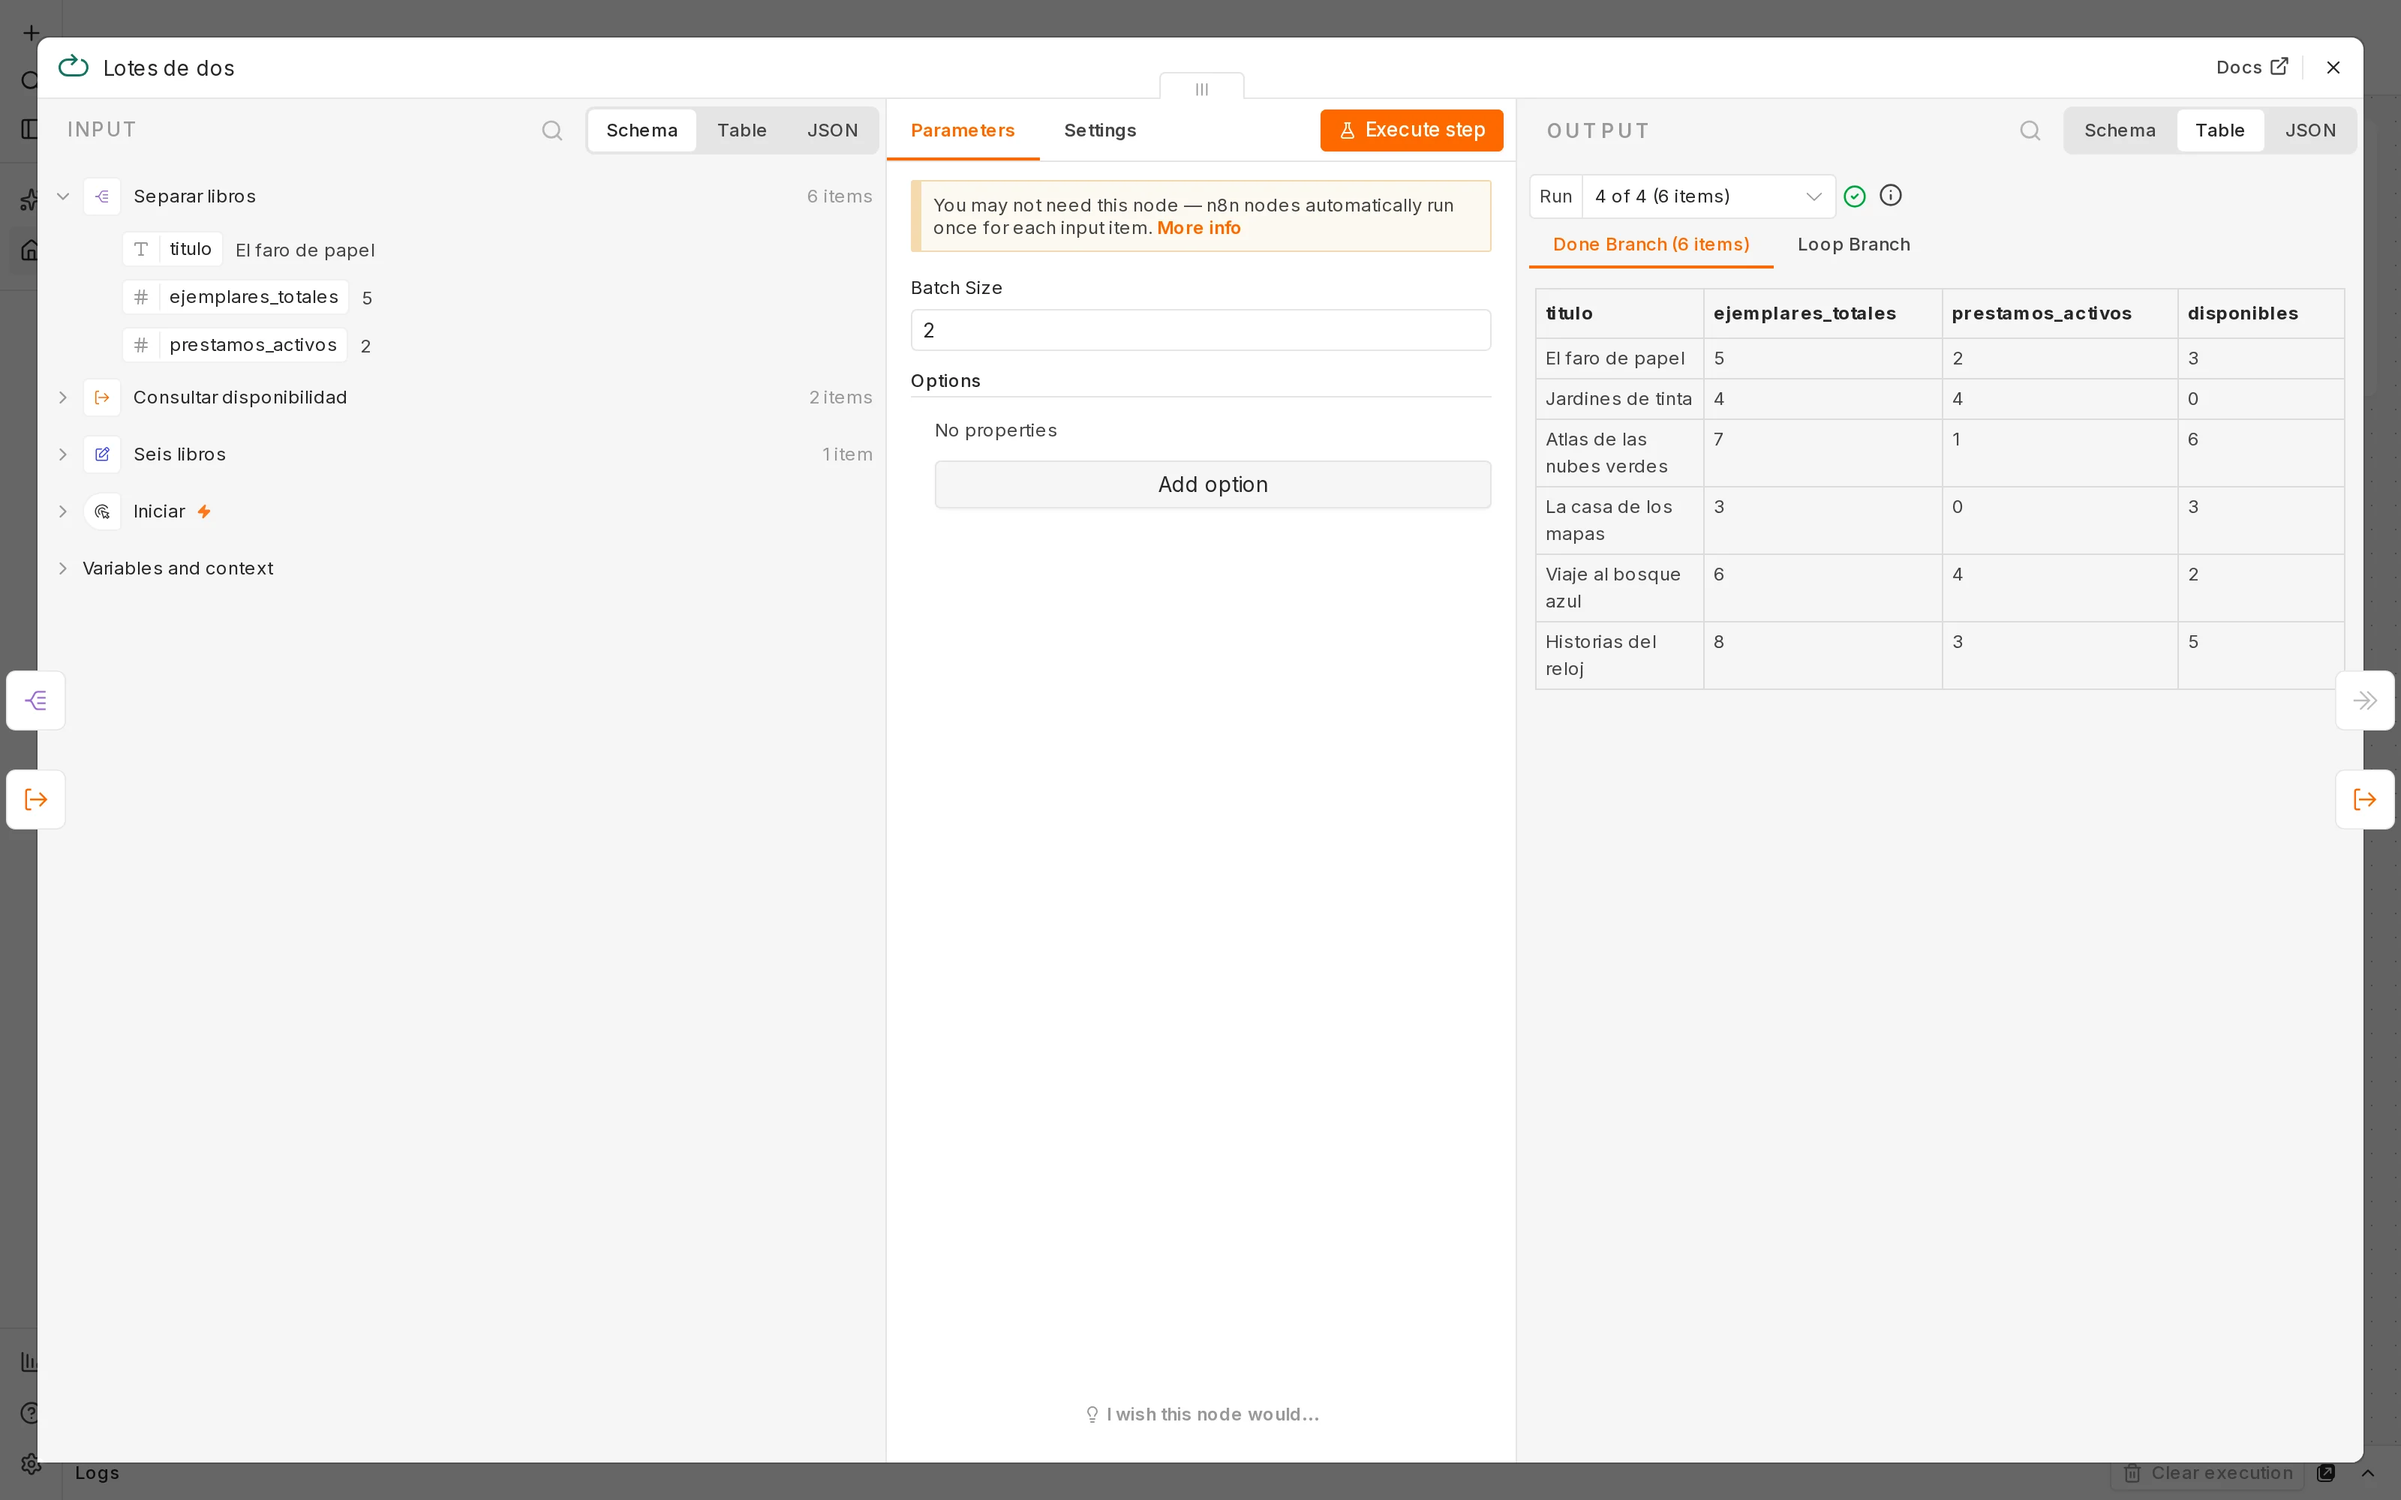
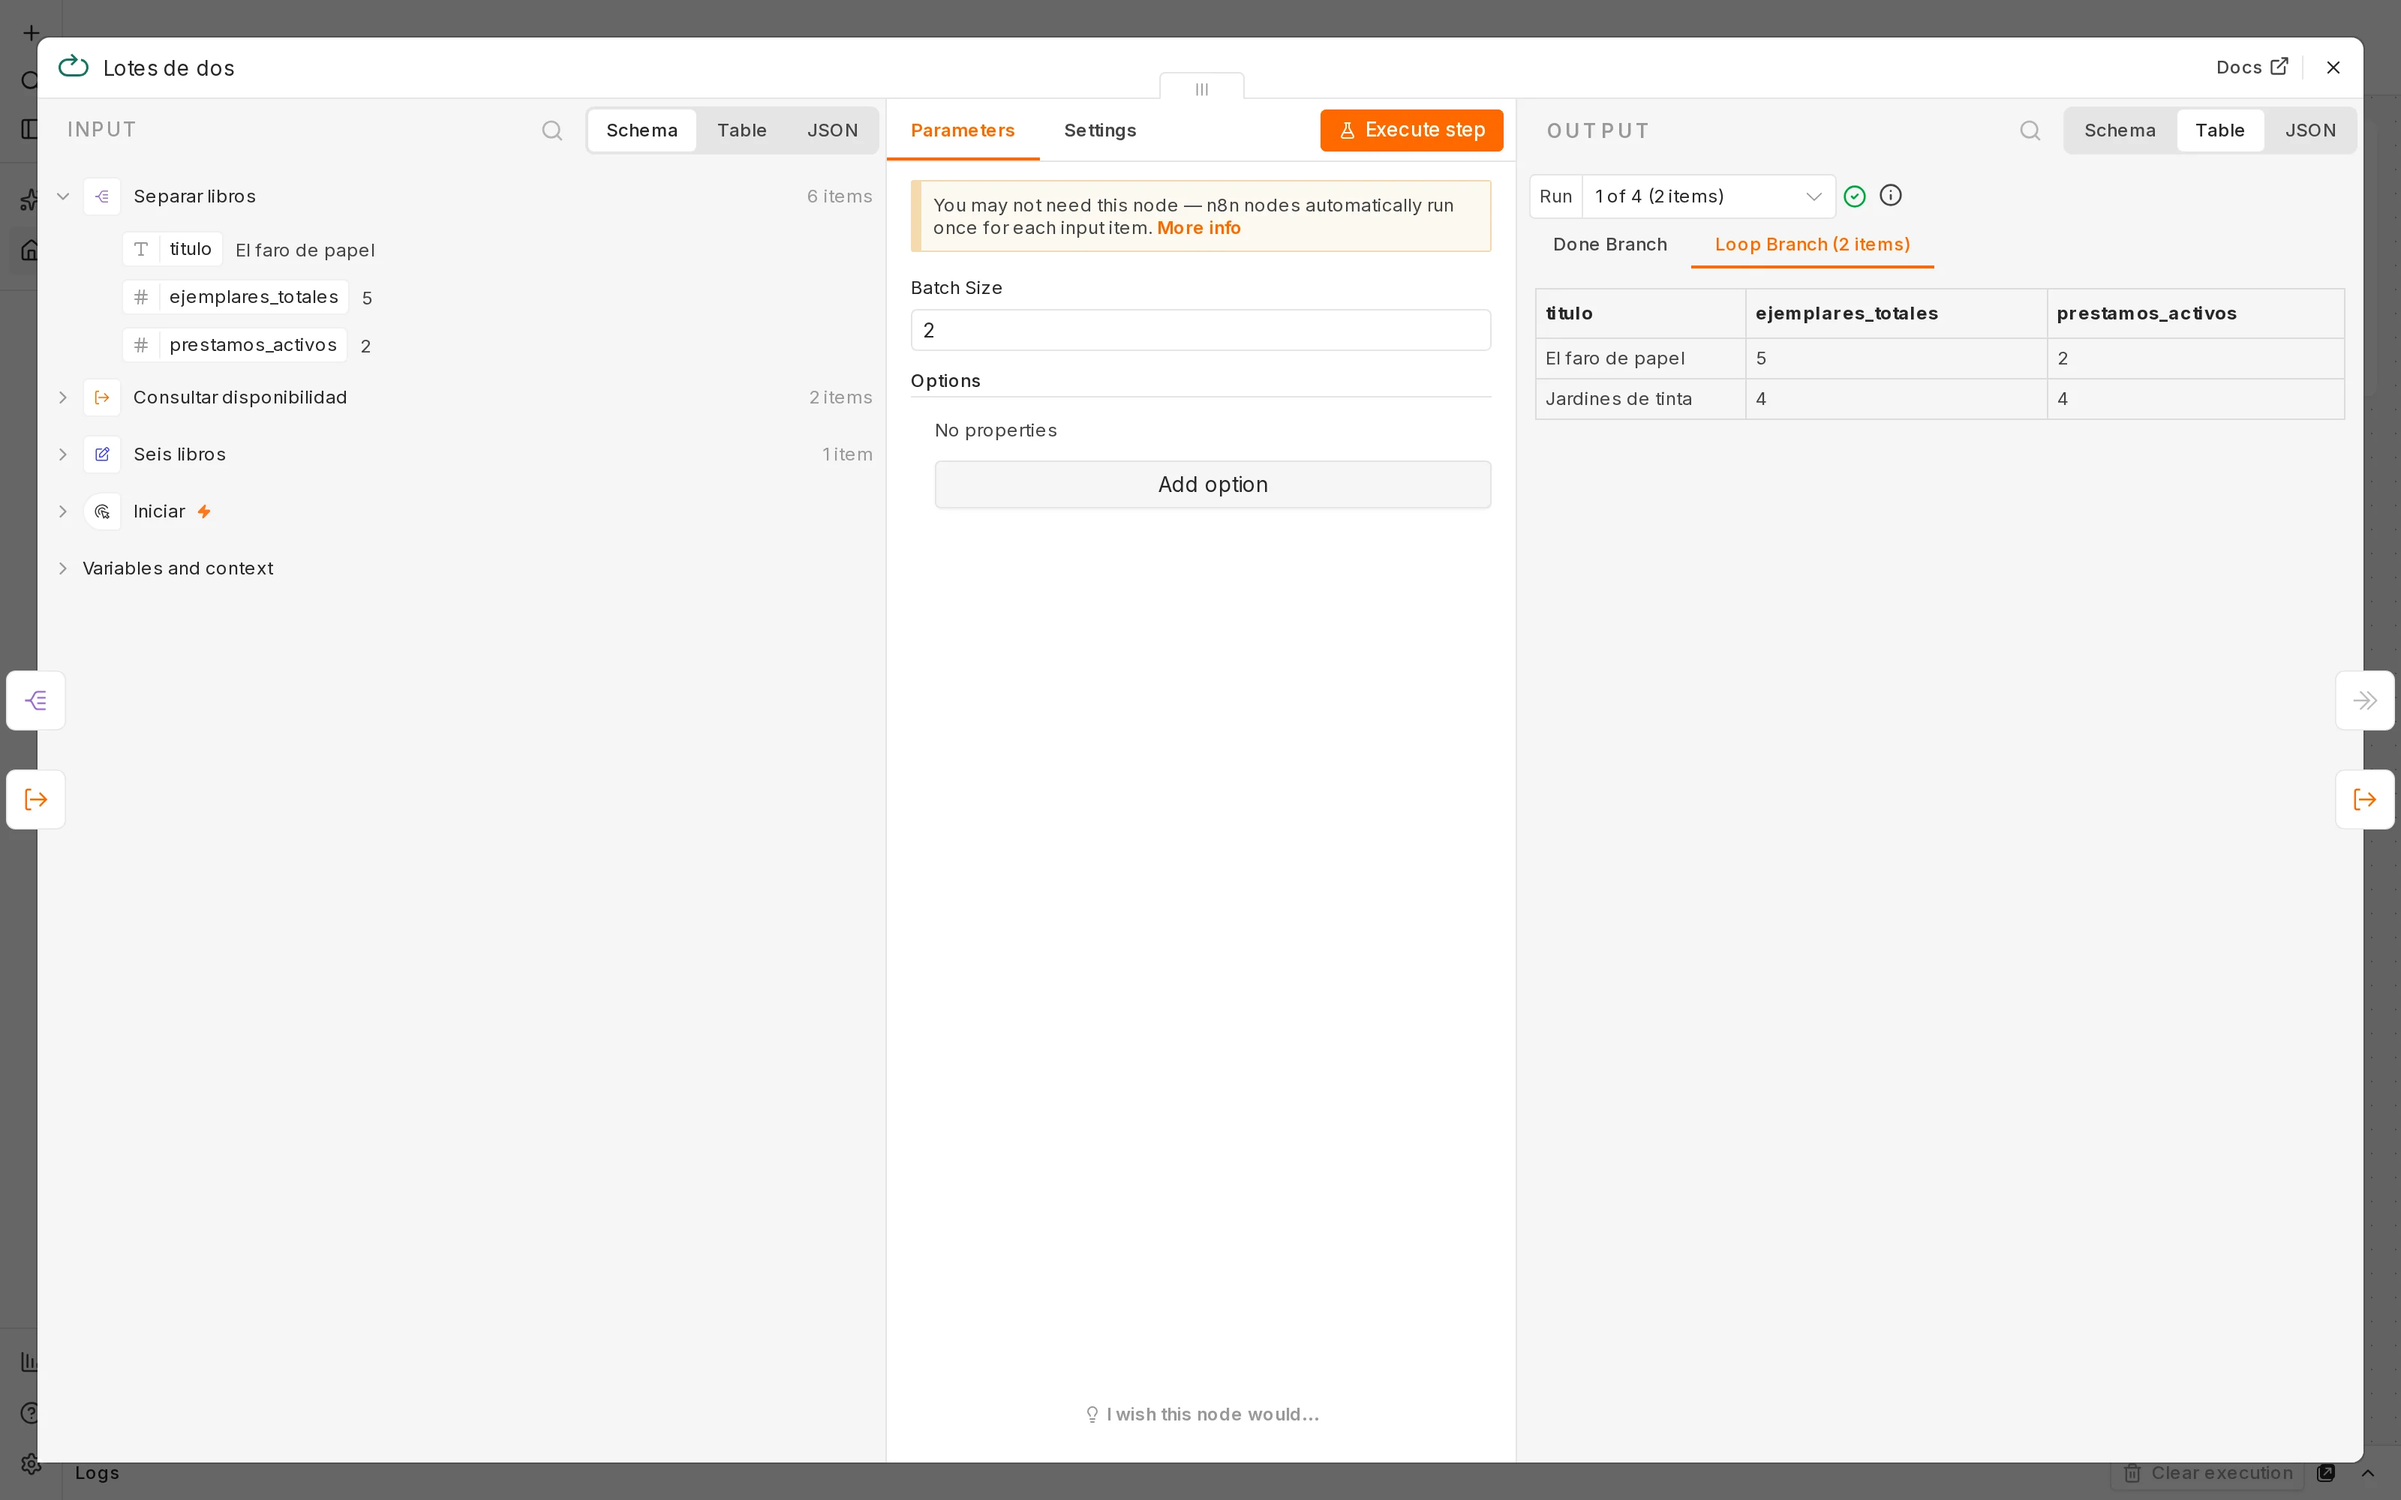
Verifica el enlace desde la interfaz y muestra el primer lote

Changed region(s): [[0.625, 0.124, 0.9375, 0.217], [0.6562, 0.279, 0.7188, 0.341], [0.6562, 0.403, 0.6875, 0.434]]

diff --git a/contenido/construccion-agentes-ia-automatizacion/13-n8n-loops-subworkflows.md b/contenido/construccion-agentes-ia-automatizacion/13-n8n-loops-subworkflows.md
@@ -105,7 +105,7 @@ En la ejecución del catálogo, el nodo de llamada se ejecuta **tres veces**, co
 | Run 3 | 2 | 0 |
 | Run 4 | 0 | 6 |
 
-<figure class="lamina-apunte" style="position:relative;max-width:1000px;margin:18px auto 24px"><img src="contenido/construccion-agentes-ia-automatizacion/imagenes/n8n-biblioteca/02-lote.webp" style="display:block;width:100%;height:auto;border:1px solid #d4d9e1" loading="lazy" width="3200" height="2000" alt="Loop Over Items con Batch Size igual a 2 y Run 4 of 4 con seis ítems en Done Branch."><a href="contenido/construccion-agentes-ia-automatizacion/imagenes/n8n-biblioteca/02-lote.webp" target="_blank" rel="noopener noreferrer" aria-label="Ampliar captura: Loop Over Items con Batch Size igual a 2 y Run 4 of 4 con seis ítems en Done Branch." style="position:absolute;right:8px;top:8px;padding:4px 8px;background:var(--color-bg);border:1px solid var(--color-divider);font-size:13px">Ampliar ↗</a><figcaption>Batch Size vale 2. Run 4 of 4 corresponde al cierre: Done Branch reúne los seis libros.</figcaption></figure>
+<figure class="lamina-apunte" style="position:relative;max-width:1000px;margin:18px auto 24px"><img src="contenido/construccion-agentes-ia-automatizacion/imagenes/n8n-biblioteca/02-lote.webp" style="display:block;width:100%;height:auto;border:1px solid #d4d9e1" loading="lazy" width="3200" height="2000" alt="Loop Over Items con Batch Size igual a 2 y Run 1 of 4 con dos ítems en Loop Branch."><a href="contenido/construccion-agentes-ia-automatizacion/imagenes/n8n-biblioteca/02-lote.webp" target="_blank" rel="noopener noreferrer" aria-label="Ampliar captura: Loop Over Items con Batch Size igual a 2 y Run 1 of 4 con dos ítems en Loop Branch." style="position:absolute;right:8px;top:8px;padding:4px 8px;background:var(--color-bg);border:1px solid var(--color-divider);font-size:13px">Ampliar ↗</a><figcaption>Batch Size vale 2. Run 1 of 4, Loop Branch, entrega El faro de papel y Jardines de tinta: dos ítems del primer lote.</figcaption></figure>
 
 El **6 items total** del cable es un acumulado de las tres pasadas, no el tamaño de un lote. El selector **Run** permite revisar cada pasada. En el nodo de llamada, **Run 3 of 3** muestra los dos últimos libros y una subejecución para ese lote.
 
@@ -135,7 +135,7 @@ Los tres archivos incluyen los datos ficticios y las notas adhesivas que aparece
 
 Importa cada JSON en un workflow nuevo mediante **Import > From file**, comenzando por el subworkflow. En los otros dos workflows, abre **Consultar disponibilidad** y selecciona el subworkflow que acabas de importar desde **From list**. El marcador `ELEGIR_SUBWORKFLOW` no es un identificador válido: debes reemplazarlo con esa selección, porque cada instancia asigna sus propios identificadores. Si aparecen dos entradas con el mismo nombre, elige la del workflow guardado, no el marcador importado.
 
-Después de seleccionar el subworkflow, cierra y vuelve a abrir el nodo si hace falta para ver los tres campos; comprueba el mapeo de la tabla anterior, **Run once with all items** y la espera activada. Ejecuta el catálogo para obtener los seis resultados y la consulta individual para obtener uno. Ambos usan Manual Trigger, por lo que estas pruebas se lanzan desde **Execute workflow**.
+Al seleccionar el subworkflow desde **Workflow > From list** en n8n 2.44.6, estos archivos conservan los tres campos y sus expresiones: no necesitas volver a mapearlos. Comprueba que coincidan con la tabla anterior, que el modo sea **Run once with all items** y que la espera esté activada. Si los campos no aparecen, cierra y vuelve a abrir el nodo. Ejecuta el catálogo para obtener los seis resultados y la consulta individual para obtener uno. Ambos usan Manual Trigger, por lo que estas pruebas se lanzan desde **Execute workflow**.
 
 ## Autoevaluación
 
